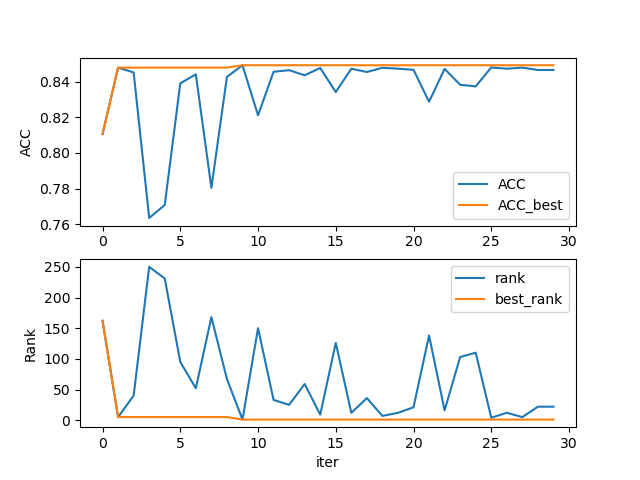
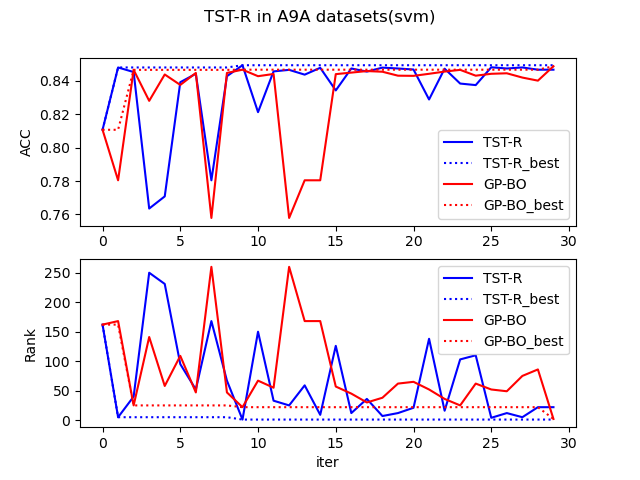
增加与高斯过程-贝叶斯优化对比

diff --git a/bbomark/search_algorithm/transfer_tst_optimizer.py b/bbomark/search_algorithm/transfer_tst_optimizer.py
@@ -196,12 +196,7 @@ class SMBO(AbstractOptimizer, FeatureSpace_uniform):
         self.surrogate.fit(self.trials.history, self.trials.history_y)
 
 
-
-opt_class = SMBO
-
-if __name__ == '__main__':
-    try_num = 30
-    SEED = 0
+def test_tst_r(try_num, SEED=0):
     np.random.seed(SEED)
     random.seed(SEED)
     smbo = SMBO_test()
@@ -210,10 +205,9 @@ if __name__ == '__main__':
     rank = []
     best_rank = []
     for t in range(try_num):
-        print('-'*10)
-        print('iter {}: '.format(t+1))
+        print('-' * 10)
+        print('iter {}: '.format(t + 1))
         x = smbo.suggest()[0]
-
 
         key = hash(x.data.tobytes())
         y = smbo.cached_new_res[key]
@@ -223,18 +217,65 @@ if __name__ == '__main__':
         print(y)
         rank.append(smbo.print_rank())
         best_rank.append(smbo.print_best_rank())
+    return smbo.trials.history_y, np.maximum.accumulate(smbo.trials.history_y), rank, best_rank
+
+def test_gpbo(try_num, SEED=0):
+    np.random.seed(SEED)
+    random.seed(SEED)
+    smbo = SMBO_test()
+    smbo.candidates = smbo.surrogate.get_knowledge(smbo.old_D_x, smbo.old_D_y, smbo.new_D_x)
+    smbo.cache_compute()
+    rank = []
+    best_rank = []
+    for t in range(try_num):
+        print('-' * 10)
+        print('iter {}: '.format(t + 1))
+        x = smbo.suggest()[0]
+
+        key = hash(x.data.tobytes())
+        y = smbo.cached_new_res[key]
+
+        smbo.observe(x, y)
+
+        smbo.surrogate.similarity = [0 for _ in smbo.old_D_x]
+        print(y)
+        rank.append(smbo.print_rank())
+        best_rank.append(smbo.print_best_rank())
+    return smbo.trials.history_y, np.maximum.accumulate(smbo.trials.history_y), rank, best_rank
+
+
+opt_class = SMBO
+
+if __name__ == '__main__':
+    try_num = 30
+    SEED = 0
+    acc,acc_best, rank, rank_best = test_tst_r(try_num, SEED)
+    acc_,acc_best_, rank_, rank_best_ = test_gpbo(try_num, SEED)
     plt.subplot(211)
-    plt.plot(np.array(smbo.trials.history_y), label='ACC')
-    plt.plot(np.maximum.accumulate(smbo.trials.history_y), label='ACC_best')
+    plt.plot(acc, 'b-', label='TST-R')
+    plt.plot(acc_best, 'b:', label='TST-R_best')
+
+    plt.plot(acc_, 'r-', label='GP-BO')
+    plt.plot(acc_best_, 'r:', label='GP-BO_best')
     plt.legend()
     plt.ylabel('ACC')
+    # plt.title
+
     plt.subplot(212)
-    plt.plot(rank, label='rank')
-    plt.plot(best_rank, label='best_rank')
+    plt.plot(rank, 'b-', label='TST-R')
+    plt.plot(rank_best, 'b:', label='TST-R_best')
+
+    plt.plot(rank_, 'r-', label='GP-BO')
+    plt.plot(rank_best_, 'r:', label='GP-BO_best')
 
     plt.legend()
     plt.ylabel('Rank')
     plt.xlabel('iter')
+
+    plt.suptitle('TST-R in A9A datasets(svm)')
     plt.savefig('./out/TST-R.png')
+
+    # plt.suptitle('TST-R in A9A datasets(svm)-correct')
+    # plt.savefig('./out/TST-R-correct.png')
     plt.show()
 

diff --git a/bbomark/surrogate/tst.py b/bbomark/surrogate/tst.py
@@ -38,6 +38,7 @@ class TST_surrogate(Surrogate):
     def predict(self, newX):
         denominator = self.rho
         mu, sigma = self.new_gp.predict_with_sigma(newX)
+        # mu *= self.rho
         for d in range(self.old_D_num):
             mu += self.similarity[d] * self.gps[d].cached_predict(newX)
             denominator += self.similarity[d]

diff --git a/README.md b/README.md
@@ -16,6 +16,8 @@ Result:
 
 ![](./out/TST-R.png)
 
+![](./out/TST-R-correct.png)
+
 Output:
 
 
